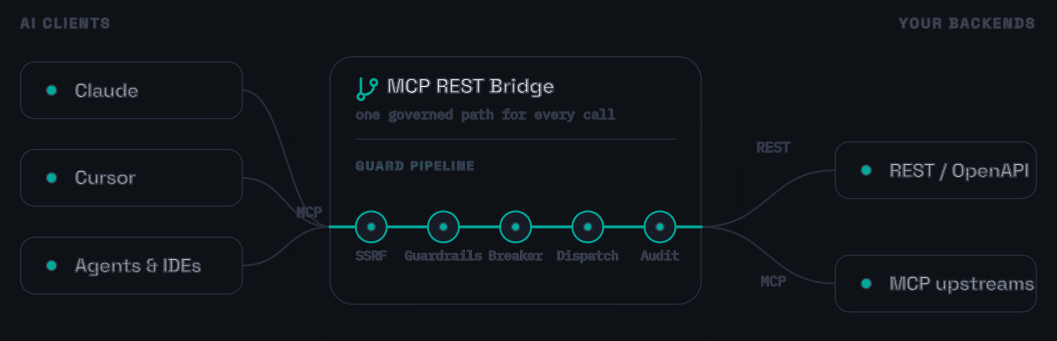
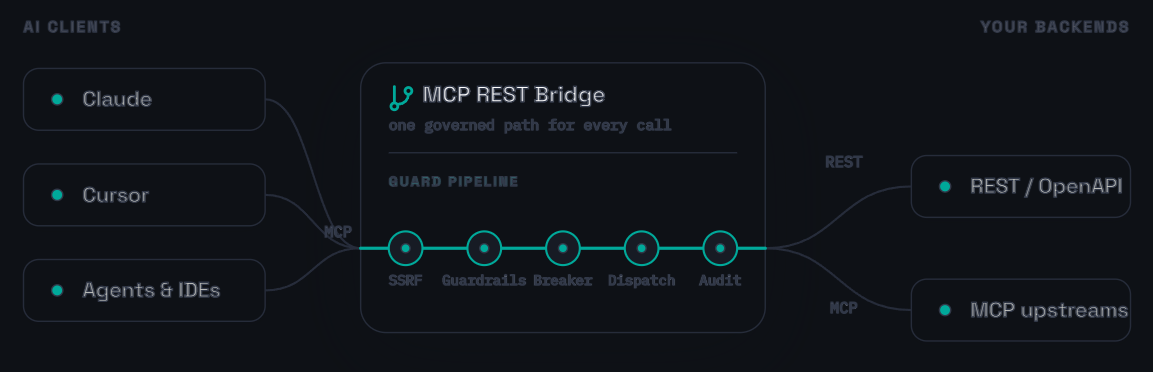
fix(docs): dark-mode legibility + multi-signal flow in How-it-works diagram
- brighten every label in dark mode (chips, gate labels, segments, sub) so text
  no longer reads as dim grey on the ink card/background
- three staggered signals now flow at once, from different clients to different
  backends (varied origin + destination), instead of a single dot
- draw the signals *behind* the guard-pipeline gates instead of over them, so a
  call visibly passes through each station
- refresh the README diagram PNGs (light + dark) to match

diff --git a/docs/.vitepress/theme/components/HowItWorks.vue b/docs/.vitepress/theme/components/HowItWorks.vue
@@ -1,9 +1,10 @@
 <script setup lang="ts">
-// "How it works" — the request journey: a tool call comes in over MCP, crosses
-// the ink bridge along a single teal artery through the guard pipeline, and fans
-// out to REST + MCP backends. Every connector leaves its chip horizontally and
-// meets the straight trunk horizontally (tangent-continuous) so nothing kinks.
-// Theme-adaptive; the traveling teal "signal" is the page's signature motif.
+// "How it works" — the request journey: tool calls come in over MCP, cross the
+// ink bridge along a single teal artery through the guard pipeline, and fan out
+// to REST + MCP backends. Connectors leave chips horizontal and meet the straight
+// trunk horizontal (tangent-continuous) so nothing kinks. Several teal "signals"
+// flow at once, from different clients to different backends, passing *behind* the
+// gate stations — the page's signature motif.
 </script>
 
 <template>
@@ -31,10 +32,19 @@
         <path class="hiw-wire" d="M544 176 C596 176 596 132 648 132" fill="none" />
         <path class="hiw-wire" d="M544 176 C596 176 596 220 648 220" fill="none" />
 
-        <!-- 3 · the teal artery / pipeline trunk (straight, on top of the card) -->
+        <!-- 3 · the teal artery / pipeline trunk (straight) -->
         <path class="hiw-spine" d="M256 176 H544" fill="none" />
 
-        <!-- 4 · gate stations on the trunk -->
+        <!-- 4 · traveling signals — drawn BEFORE the gates so they pass behind them.
+             Three at once, from different clients to different backends, staggered. -->
+        <circle class="hiw-pulse-halo hiw-a" r="8" />
+        <circle class="hiw-pulse hiw-a" r="4.4" />
+        <circle class="hiw-pulse-halo hiw-b" r="8" />
+        <circle class="hiw-pulse hiw-b" r="4.4" />
+        <circle class="hiw-pulse-halo hiw-c" r="8" />
+        <circle class="hiw-pulse hiw-c" r="4.4" />
+
+        <!-- 5 · gate stations on the trunk (on top of the signals) -->
         <g class="hiw-gates">
           <circle class="hiw-gate" cx="288" cy="176" r="12" />
           <circle class="hiw-gate-core" cx="288" cy="176" r="3.2" />
@@ -55,7 +65,7 @@
           <text class="hiw-gate-label" x="512" y="202">Audit</text>
         </g>
 
-        <!-- 5 · bridge header -->
+        <!-- 6 · bridge header -->
         <g class="hiw-glyph" transform="translate(276,60)">
           <line x1="4" y1="1" x2="4" y2="12" />
           <circle cx="14" cy="4" r="2.4" />
@@ -67,7 +77,7 @@
         <line class="hiw-divider" x1="276" y1="108" x2="524" y2="108" />
         <text class="hiw-pipe-label" x="276" y="132">GUARD PIPELINE</text>
 
-        <!-- 6 · chips (cover the connector ends) -->
+        <!-- 7 · chips (cover the connector ends) -->
         <g class="hiw-chip-g">
           <rect class="hiw-chip" x="16" y="48" width="172" height="44" rx="11" />
           <circle class="hiw-node" cx="40" cy="70" r="4" />
@@ -94,18 +104,14 @@
           <text class="hiw-label" x="690" y="225">MCP upstreams</text>
         </g>
 
-        <!-- 7 · segment labels -->
+        <!-- 8 · segment labels -->
         <text class="hiw-seg" x="240" y="168" text-anchor="middle">MCP</text>
         <text class="hiw-seg" x="600" y="118" text-anchor="middle">REST</text>
         <text class="hiw-seg" x="600" y="222" text-anchor="middle">MCP</text>
-
-        <!-- 8 · traveling signal (mid client → trunk → a backend) -->
-        <circle class="hiw-dot-halo" r="9" />
-        <circle class="hiw-dot" r="4.5" />
       </svg>
     </div>
     <figcaption class="hiw-cap">
-      One tool call in over MCP — dispatched out to your REST APIs or MCP servers, through the
+      Tool calls in over MCP — dispatched out to your REST APIs or MCP servers, through the
       full guard stack on every hop.
     </figcaption>
   </figure>
@@ -173,10 +179,6 @@
   stroke-width: 1;
   filter: drop-shadow(0 14px 30px rgba(14, 17, 22, 0.22));
 }
-:global(.dark) .hiw-bridge {
-  fill: #171b24;
-  stroke: #313848;
-}
 .hiw-glyph {
   fill: none;
   stroke: #00a99a;
@@ -191,7 +193,7 @@
   font-weight: 600;
 }
 .hiw-bridge-sub {
-  fill: #8d94a3;
+  fill: #9aa1ae;
   font-family: var(--vp-font-family-mono);
   font-size: 10.5px;
 }
@@ -211,49 +213,87 @@
   stroke: #00a99a;
   stroke-width: 1.5;
 }
-:global(.dark) .hiw-gate {
-  fill: #0e1116;
-}
 .hiw-gate-core {
   fill: #00a99a;
 }
 .hiw-gate-label {
-  fill: #c3c8d0;
+  fill: #b9c0ca;
   font-family: var(--vp-font-family-mono);
   font-size: 10px;
   text-anchor: middle;
 }
 
-/* Traveling signal — the signature motif. */
-.hiw-dot {
+/* ── Dark mode: lift the card off the ink page, and brighten every label so text
+      never reads as dim grey on the dark card/background. ── */
+:global(.dark) .hiw-bridge {
+  fill: #171b24;
+  stroke: #313848;
+}
+:global(.dark) .hiw-gate {
+  fill: #0e1116;
+}
+:global(.dark) .hiw-label {
+  fill: #eaedf1;
+}
+:global(.dark) .hiw-eyebrow {
+  fill: #8b93a2;
+}
+:global(.dark) .hiw-seg {
+  fill: #b7bec9;
+}
+:global(.dark) .hiw-gate-label {
+  fill: #dae0e7;
+}
+:global(.dark) .hiw-bridge-sub {
+  fill: #9aa1ae;
+}
+
+/* ── Traveling signals ── */
+.hiw-pulse {
   fill: #2fd4c4;
-}
-.hiw-dot-halo {
-  fill: #00a99a;
-  opacity: 0.25;
-}
-.hiw-dot,
-.hiw-dot-halo {
-  offset-path: path('M188 138 C222 138 222 176 256 176 H544 C596 176 596 132 648 132');
+  opacity: 0;
   offset-distance: 0%;
 }
+.hiw-pulse-halo {
+  fill: #00a99a;
+  opacity: 0;
+  offset-distance: 0%;
+}
+.hiw-a {
+  offset-path: path('M188 70 C222 70 222 176 256 176 H544 C596 176 596 132 648 132');
+}
+.hiw-b {
+  offset-path: path('M188 206 C222 206 222 176 256 176 H544 C596 176 596 220 648 220');
+}
+.hiw-c {
+  offset-path: path('M188 138 C222 138 222 176 256 176 H544 C596 176 596 132 648 132');
+}
 @media (prefers-reduced-motion: no-preference) {
-  .hiw-dot {
-    animation: hiw-travel 4.6s cubic-bezier(0.55, 0, 0.45, 1) infinite;
+  .hiw-pulse {
+    animation: hiw-flow 5s linear infinite;
   }
-  .hiw-dot-halo {
-    animation: hiw-travel-halo 4.6s cubic-bezier(0.55, 0, 0.45, 1) infinite;
+  .hiw-pulse-halo {
+    animation: hiw-flow-halo 5s linear infinite;
+  }
+  .hiw-a {
+    animation-delay: -0.2s;
+  }
+  .hiw-b {
+    animation-delay: -1.9s;
+  }
+  .hiw-c {
+    animation-delay: -3.6s;
   }
 }
-@keyframes hiw-travel {
+@keyframes hiw-flow {
   0% {
     offset-distance: 0%;
     opacity: 0;
   }
-  12% {
+  8% {
     opacity: 1;
   }
-  86% {
+  88% {
     opacity: 1;
   }
   100% {
@@ -261,16 +301,16 @@
     opacity: 0;
   }
 }
-@keyframes hiw-travel-halo {
+@keyframes hiw-flow-halo {
   0% {
     offset-distance: 0%;
     opacity: 0;
   }
-  12% {
-    opacity: 0.25;
+  8% {
+    opacity: 0.22;
   }
-  86% {
-    opacity: 0.25;
+  88% {
+    opacity: 0.22;
   }
   100% {
     offset-distance: 100%;